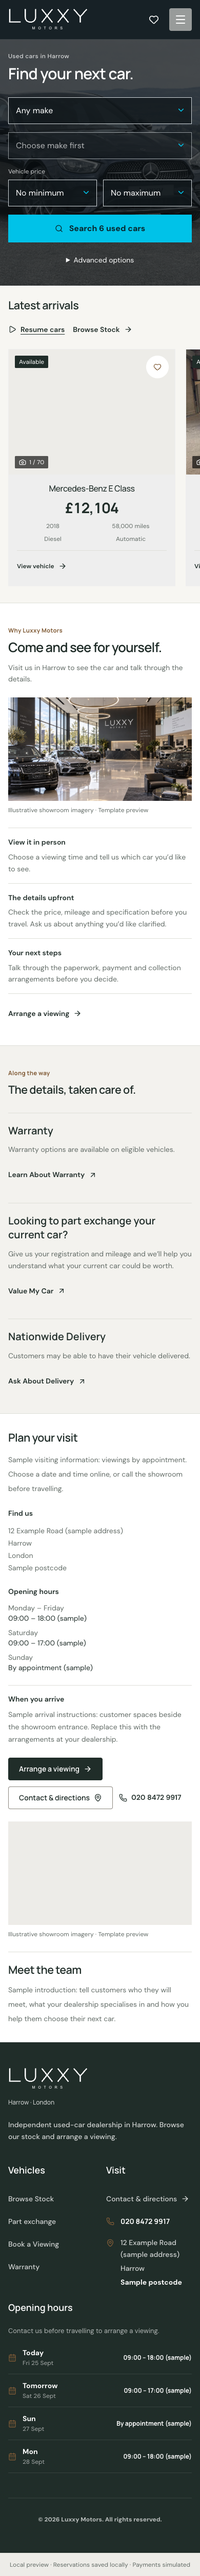
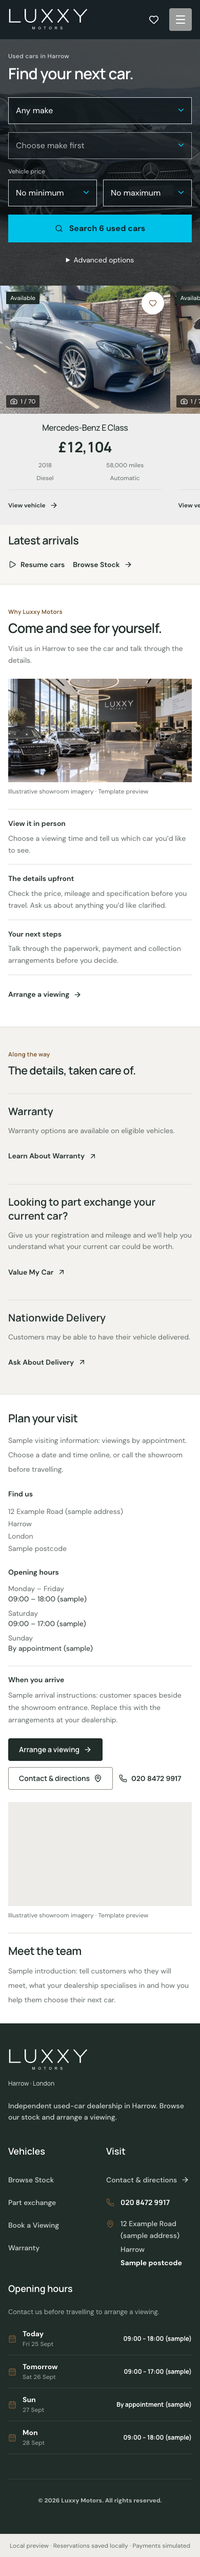
Advance homepage carousel one car at a time with flush hero layout

diff --git a/artifacts/luxxy-motors/src/components/rolling-stock.tsx b/artifacts/luxxy-motors/src/components/rolling-stock.tsx
@@ -1,4 +1,4 @@
-import { useState } from 'react';
+import { useEffect, useRef, useState } from 'react';
 import { Link } from 'wouter';
 import { Pause, Play, ArrowRight } from 'lucide-react';
 import { CarCard } from '@/components/car-card';
@@ -6,19 +6,34 @@ import type { Car } from '@/lib/stock-context';
 
 export function RollingStock({ cars, unavailable = false }: { cars: Car[]; unavailable?: boolean }) {
   const [paused, setPaused] = useState(false);
-  return <section className="rolling-stock homepage-stock py-6" aria-labelledby="rolling-stock-heading">
-    <div className="container mx-auto mb-4 flex flex-wrap items-center justify-between gap-3 px-4 sm:px-6 lg:px-8">
+  const viewport = useRef<HTMLDivElement>(null);
+  useEffect(() => {
+    const element = viewport.current;
+    if (!element || paused || cars.length <= 1) return;
+    const reducedMotion = window.matchMedia('(prefers-reduced-motion: reduce)');
+    const timer = window.setInterval(() => {
+      if (reducedMotion.matches || element.matches(':hover, :focus-within') || document.hidden) return;
+      const group = element.querySelector<HTMLElement>('.rolling-stock-group');
+      const card = group?.firstElementChild as HTMLElement | undefined;
+      if (!group || !card) return;
+      if (element.scrollLeft >= group.offsetWidth - 1) element.scrollLeft -= group.offsetWidth;
+      element.scrollBy({ left: card.getBoundingClientRect().width, behavior: 'smooth' });
+    }, 4000);
+    return () => window.clearInterval(timer);
+  }, [paused, cars.length]);
+  return <section className="rolling-stock homepage-stock" aria-labelledby="rolling-stock-heading">
+    {cars.length ? <div ref={viewport} className="rolling-stock-window" tabIndex={0} aria-label="Latest vehicles; pause to browse" data-paused={paused || cars.length <= 1}>
+      <div className="rolling-stock-track">
+        <div className="rolling-stock-group">{cars.map(car => <CarCard key={car.id} car={car} stretchedLink />)}</div>
+        {cars.length > 1 && <div className="rolling-stock-group rolling-stock-copy" aria-hidden="true" ref={node => { node?.querySelectorAll<HTMLElement>('a, button, [tabindex]').forEach(element => { element.tabIndex = -1; }); }}>{cars.map(car => <CarCard key={car.id} car={car} stretchedLink />)}</div>}
+      </div>
+    </div> : <p className="container mx-auto px-4 text-muted-foreground">{unavailable ? 'Stock is temporarily unavailable. Please contact the team for current availability.' : 'No vehicles currently listed. Contact the team about upcoming stock.'}</p>}
+    <div className="container mx-auto py-4 flex flex-wrap items-center justify-between gap-3 px-4 sm:px-6 lg:px-8">
       <h2 id="rolling-stock-heading" className="section-heading">Latest arrivals</h2>
       <div className="flex items-center gap-4">
         {cars.length > 1 && <button className="rolling-stock-toggle text-link min-h-11 text-sm" type="button" onClick={() => setPaused(!paused)} aria-pressed={paused}>{paused ? <Play className="h-4 w-4" aria-hidden="true" /> : <Pause className="h-4 w-4" aria-hidden="true" />}{paused ? 'Resume cars' : 'Pause cars'}</button>}
         <Link href="/stock" className="text-link min-h-11 text-sm">Browse Stock <ArrowRight className="h-4 w-4" aria-hidden="true" /></Link>
       </div>
     </div>
-    {cars.length ? <div className="rolling-stock-window" tabIndex={0} aria-label="Latest vehicles; pause to browse" data-paused={paused || cars.length <= 1}>
-      <div className="rolling-stock-track">
-        <div className="rolling-stock-group">{cars.map(car => <CarCard key={car.id} car={car} stretchedLink />)}</div>
-        {cars.length > 1 && <div className="rolling-stock-group rolling-stock-copy" aria-hidden="true" ref={node => { node?.querySelectorAll<HTMLElement>('a, button, [tabindex]').forEach(element => { element.tabIndex = -1; }); }}>{cars.map(car => <CarCard key={car.id} car={car} stretchedLink />)}</div>}
-      </div>
-    </div> : <p className="container mx-auto px-4 text-muted-foreground">{unavailable ? 'Stock is temporarily unavailable. Please contact the team for current availability.' : 'No vehicles currently listed. Contact the team about upcoming stock.'}</p>}
   </section>;
 }

diff --git a/artifacts/luxxy-motors/tests/homepage-hero.spec.ts b/artifacts/luxxy-motors/tests/homepage-hero.spec.ts
@@ -14,8 +14,10 @@ for (const width of [390, 1440]) {
     if (width === 1440) {
       const card = await strip.locator('.rolling-stock-group').first().locator('article').first().boundingBox();
       expect(card!.width).toBeGreaterThan(300);
-      expect(card!.width).toBeLessThan(360);
+      expect(card!.width).toBeLessThanOrEqual(360);
     }
+    await page.evaluate(() => { (document.activeElement as HTMLElement)?.blur(); window.scrollTo({top: 0, behavior: 'instant'}); });
+    await expect.poll(() => page.evaluate(() => window.scrollY)).toBe(0);
     await page.screenshot({path: '/tmp/luxxy-rolling-' + width + '.png', fullPage: true, animations: 'disabled'});
 
     await expect(hero.getByRole('combobox', { name: 'Search model', exact: true })).toBeDisabled();
@@ -60,14 +62,14 @@ for (const width of [390, 1440]) {
 
 test('rolling cars move left, pause and respect reduced motion', async ({ page }) => {
   await page.goto('/');
-  const track = page.locator('.rolling-stock-track');
+  const viewport = page.locator('.rolling-stock-window');
   await page.mouse.move(0, 0);
-  const before = await track.evaluate(node => new DOMMatrix(getComputedStyle(node).transform).m41);
-  await expect.poll(() => track.evaluate(node => new DOMMatrix(getComputedStyle(node).transform).m41)).toBeLessThan(before - 5);
+  const step = await viewport.locator('article').first().evaluate(node => node.getBoundingClientRect().width);
+  await expect.poll(() => viewport.evaluate(node => node.scrollLeft), {timeout: 6500}).toBeGreaterThan(step - 2);
+  expect(await viewport.evaluate(node => node.scrollLeft)).toBeLessThan(step + 2);
   await page.getByRole('button', {name: 'Pause cars'}).click();
-  await expect(track).toHaveCSS('animation-play-state', 'paused');
+  await expect(viewport).toHaveAttribute('data-paused', 'true');
   await page.emulateMedia({reducedMotion: 'reduce'});
-  await expect(track).toHaveCSS('animation-name', 'none');
   await expect(page.locator('.rolling-stock-copy')).toBeHidden();
   await page.goto('/#stock');
   await expect(page).toHaveURL(/\/stock$/);

diff --git a/artifacts/luxxy-motors/src/index.css b/artifacts/luxxy-motors/src/index.css
@@ -330,19 +330,15 @@
  .vehicle-print-footer small { display: block; margin-top: 1mm; font-size: 7pt; color: #555; }
 }
 
-/* Four visible vehicles on desktop, with an accessible, pausable continuous strip. */
-.rolling-stock-window { overflow-x: auto; scrollbar-width: thin; padding: 0 16px 8px; }
-.rolling-stock-track { display: flex; width: max-content; animation: stock-roll 65s linear infinite; }
-.rolling-stock-group { display: flex; gap: 20px; padding-right: 20px; }
-.rolling-stock-group > * { width: calc((100vw - 92px) / 4); flex: none; }
-.rolling-stock-window[data-paused="true"] .rolling-stock-track,
-.rolling-stock-window:hover .rolling-stock-track,
-.rolling-stock-window:focus-within .rolling-stock-track { animation-play-state: paused; }
+/* Edge-to-edge vehicles advance by one card every four seconds. */
+.rolling-stock-window { overflow-x: auto; scrollbar-width: none; padding: 0; }
+.rolling-stock-window::-webkit-scrollbar { display: none; }
+.rolling-stock-track, .rolling-stock-group { display: flex; width: max-content; }
+.rolling-stock-group > * { width: 25vw; flex: none; }
+.rolling-stock .vehicle-card { border: 0; border-radius: 0; box-shadow: none; }
 .rolling-stock-window:focus-visible { outline: 2px solid hsl(var(--ring)); outline-offset: -2px; }
-@keyframes stock-roll { to { transform: translateX(-50%); } }
-@media (max-width: 1023px) { .rolling-stock-group > * { width: calc((100vw - 52px) / 2); } }
-@media (max-width: 639px) { .rolling-stock-group > * { width: calc(100vw - 64px); } }
+@media (max-width: 1023px) { .rolling-stock-group > * { width: 50vw; } }
+@media (max-width: 639px) { .rolling-stock-group > * { width: 85vw; } }
 @media (prefers-reduced-motion: reduce) {
- .rolling-stock-track { animation: none; }
  .rolling-stock-copy, .rolling-stock-toggle { display: none; }
 }

diff --git a/artifacts/luxxy-motors/src/pages/home.test.tsx b/artifacts/luxxy-motors/src/pages/home.test.tsx
@@ -206,6 +206,7 @@ const originalCars = stockFixture.cars.map((car) => ({ ...car }));
 afterEach(() => vi.restoreAllMocks());
 
 beforeEach(() => {
+  window.matchMedia = vi.fn().mockReturnValue({ matches: false });
   window.sessionStorage.clear();
   vi.clearAllMocks();
   window.localStorage.clear();

diff --git a/docs/ui-redesign.md b/docs/ui-redesign.md
@@ -622,3 +622,6 @@ Moved the full filter/sort/grid/list stock experience to /stock, titled Browse S
 Under the homepage hero, a continuous right-to-left vehicle strip shows four cards across on desktop, two on tablet and a swipeable single-card view with the next card visible on phones. Reuses real CarCard photography, prices, saved-car controls and photo arrows. Pause/resume, hover/focus pausing and reduced-motion (static horizontal browsing) are supported. Duplicate visual cards are excluded from keyboard tab order and screen-reader reading order.
 
 Validation: 168 frontend tests, three desktop/mobile browser scenarios covering search handoff, price/transmission filtering, saved cars, photo arrows, returning from details, animation direction/pause, reduced motion and legacy stock links. Workspace typechecking and builds pass (existing bundle-size warning remains). Screenshots: docs/screenshots/rolling-stock. No backend, database, production or deployment changes.
+
+### Stepped, flush homepage carousel
+Changed the continuous marquee to one-card smooth advances every four seconds, retaining hover/focus pause, pause/resume and reduced-motion support. Removed the spacing between hero and vehicle photographs, all carousel card borders and inter-card gutters. Moved the arrivals heading and controls underneath. Desktop retains four cars across; smaller screens remain horizontally browsable. Browser checks verify a single-card increment and desktop/mobile search/return journeys.
